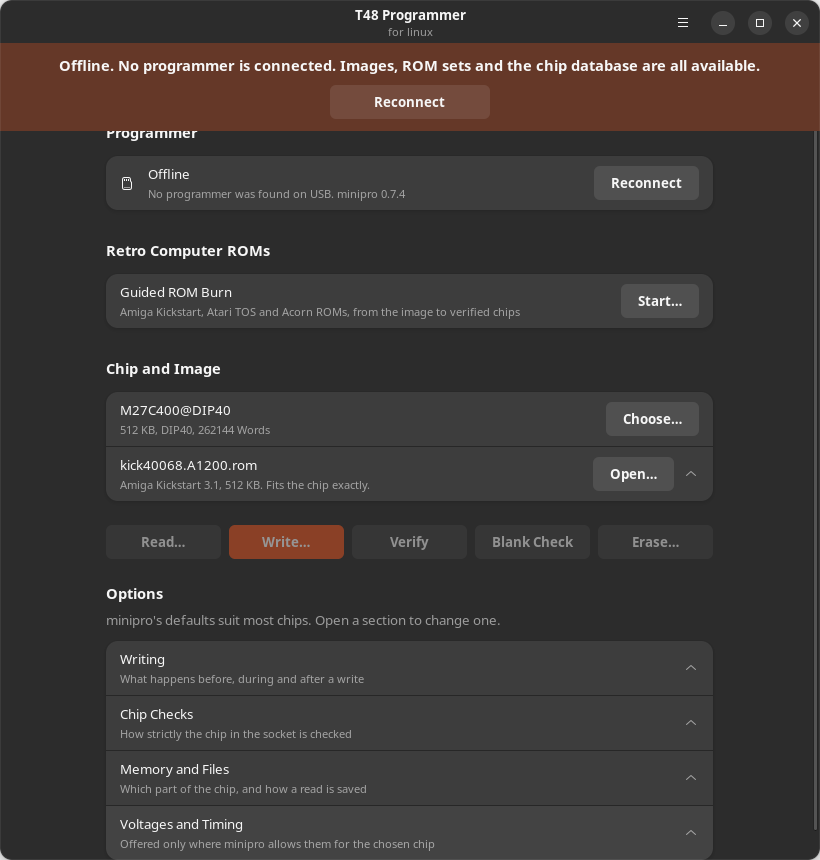
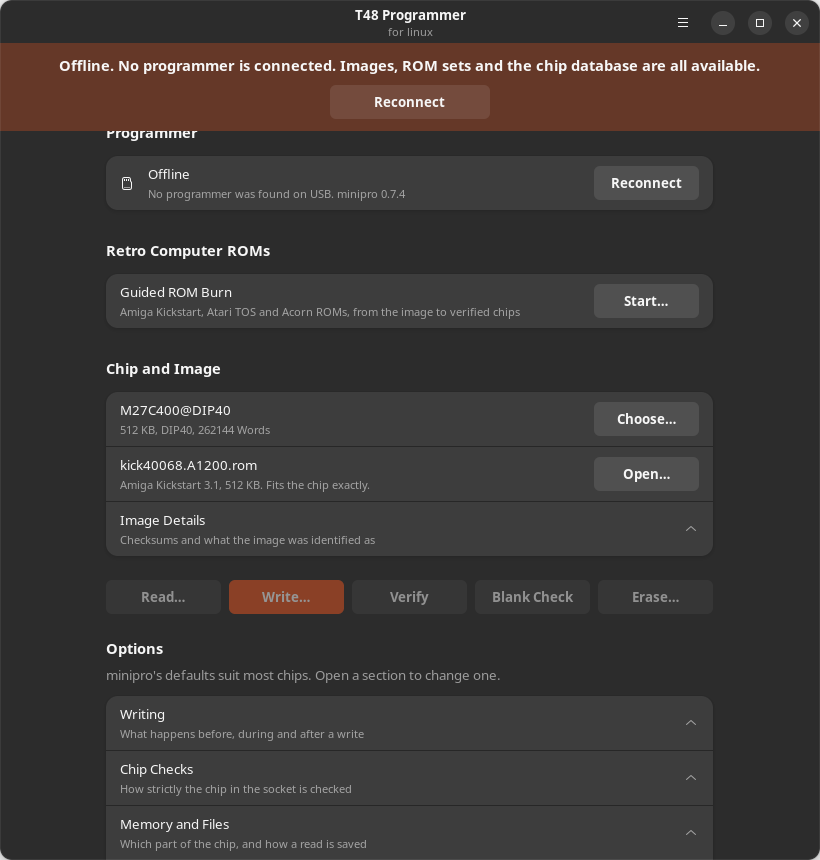
Line up the buttons on the start page
Reconnect, Start, Choose and Open were each as wide as their own label, and
Open sat further in than the rest because its row was an expander, which draws
its arrow after any button it is given.

The four buttons are now made by one helper and share a size group, so they are
the same width and line up at both edges. The image row is an ordinary row like
the others, and the image's details have an expander row of their own beneath
it, shown only when an image is open. That row's subtitle counts the warnings
when there are any, and it still opens by itself for a suspect image.

A test checks the geometry: one width, and one right-hand edge.

diff --git a/src/t48_programmer/window.py b/src/t48_programmer/window.py
@@ -288,15 +288,25 @@ class MainWindow(Adw.ApplicationWindow):
         self._progress_page.set_child(box)
         return self._progress_page
 
+    def _row_button(self, row: Adw.ActionRow, label: str, action_name: str) -> None:
+        """Put a command button at the end of a start page row.
+
+        The buttons share a size group, so they are all as wide as the widest
+        and line up down the page at both edges.
+        """
+        button = Gtk.Button(label=label, valign=Gtk.Align.CENTER)
+        button.set_action_name(action_name)
+        self._row_buttons.add_widget(button)
+        row.add_suffix(button)
+
     def _build_dashboard(self) -> Gtk.Widget:
         page = Adw.PreferencesPage()
+        self._row_buttons = Gtk.SizeGroup(mode=Gtk.SizeGroupMode.HORIZONTAL)
 
         hardware = Adw.PreferencesGroup(title="Programmer")
         self._programmer_row = Adw.ActionRow(title="Looking for the programmer…")
         self._programmer_row.add_prefix(Gtk.Image(icon_name="media-flash-symbolic"))
-        reconnect = Gtk.Button(label="Reconnect", valign=Gtk.Align.CENTER)
-        reconnect.set_action_name("win.reconnect")
-        self._programmer_row.add_suffix(reconnect)
+        self._row_button(self._programmer_row, "Reconnect", "win.reconnect")
         hardware.add(self._programmer_row)
         page.add(hardware)
 
@@ -306,24 +316,23 @@ class MainWindow(Adw.ApplicationWindow):
             subtitle="Amiga Kickstart, Atari TOS and Acorn ROMs, from the image to "
             "verified chips",
         )
-        start_guide = Gtk.Button(label="Start…", valign=Gtk.Align.CENTER)
-        start_guide.set_action_name("win.rom-wizard")
-        guide_row.add_suffix(start_guide)
+        self._row_button(guide_row, "Start…", "win.rom-wizard")
         guide.add(guide_row)
         page.add(guide)
 
         target = Adw.PreferencesGroup(title="Chip and Image")
         self._chip_row = Adw.ActionRow(title_lines=1)
-        choose = Gtk.Button(label="Choose…", valign=Gtk.Align.CENTER)
-        choose.set_action_name("win.choose-chip")
-        self._chip_row.add_suffix(choose)
+        self._row_button(self._chip_row, "Choose…", "win.choose-chip")
         target.add(self._chip_row)
-        self._image_row = Adw.ExpanderRow(title_lines=1)
-        open_image = Gtk.Button(label="Open…", valign=Gtk.Align.CENTER)
-        open_image.set_action_name("win.open-image")
-        self._image_row.add_suffix(open_image)
-        self._image_detail_rows: list[Gtk.Widget] = []
+        self._image_row = Adw.ActionRow(title_lines=1)
+        self._row_button(self._image_row, "Open…", "win.open-image")
         target.add(self._image_row)
+        # The details have a row of their own. An expander draws its arrow
+        # after any button it is given, which would push Open out of line with
+        # the buttons above it.
+        self._image_details = Adw.ExpanderRow(title="Image Details", visible=False)
+        self._image_detail_rows: list[Gtk.Widget] = []
+        target.add(self._image_details)
         page.add(target)
 
         actions = Adw.PreferencesGroup()
@@ -430,12 +439,12 @@ class MainWindow(Adw.ApplicationWindow):
             self._chip_row.set_subtitle("Every operation needs to know the exact part")
 
         for row in self._image_detail_rows:
-            self._image_row.remove(row)
+            self._image_details.remove(row)
         self._image_detail_rows.clear()
         if self.image_path is None or self.image_identity is None:
             self._image_row.set_title("No image opened")
             self._image_row.set_subtitle("Needed to write or verify a chip")
-            self._image_row.set_enable_expansion(False)
+            self._image_details.set_visible(False)
             return
         identity = self.image_identity
         summary = [identity.title, size_text(self.image_bytes)]
@@ -454,9 +463,15 @@ class MainWindow(Adw.ApplicationWindow):
             row.add_css_class("property")
             self._image_detail_rows.append(row)
         for row in self._image_detail_rows:
-            self._image_row.add_row(row)
-        self._image_row.set_enable_expansion(bool(self._image_detail_rows))
-        self._image_row.set_expanded(bool(identity.warnings))
+            self._image_details.add_row(row)
+        warnings = len(identity.warnings)
+        self._image_details.set_subtitle(
+            "Checksums and what the image was identified as"
+            if not warnings
+            else f"{warnings} warning" + ("s" if warnings > 1 else "")
+        )
+        self._image_details.set_visible(bool(self._image_detail_rows))
+        self._image_details.set_expanded(bool(warnings))
 
     def _fit_text(self) -> str:
         chip_bytes = self.chip_info.code_bytes if self.chip_info else 0

diff --git a/tests/test_window.py b/tests/test_window.py
@@ -154,18 +154,45 @@ class ConnectedWindowTests(WindowTestCase):
         self.assertEqual(self.window._image_row.get_title(), "kick31.rom")
         self.assertIn("Amiga Kickstart 3.1", subtitle)
         self.assertIn("Fits the chip exactly.", subtitle)
-        self.assertFalse(self.window._image_row.get_expanded())
+        self.assertFalse(self.window._image_details.get_expanded())
 
         self.window.set_chip("AT28C256")
 
         self.assertIn("the chip holds 32 KB", self.window._image_row.get_subtitle())
+
+    def test_the_start_page_buttons_line_up(self) -> None:
+        buttons = self.window._row_buttons.get_widgets()
+        self.window.load_image(self.image("kick31.rom", samples.kickstart()))
+        pump(lambda: False, timeout=0.3)
+
+        self.assertEqual(
+            sorted(button.get_label() for button in buttons),
+            ["Choose…", "Open…", "Reconnect", "Start…"],
+        )
+        self.assertEqual(len({button.get_width() for button in buttons}), 1)
+        # Every button ends at the same distance from the edge of the window.
+        edges = {
+            round(
+                button.compute_bounds(self.window)[1].get_x()
+                + button.compute_bounds(self.window)[1].get_width()
+            )
+            for button in buttons
+        }
+        self.assertEqual(len(edges), 1)
+
+    def test_image_details_appear_only_when_there_is_an_image(self) -> None:
+        self.assertFalse(self.window._image_details.get_visible())
+
+        self.window.load_image(self.image("kick31.rom", samples.kickstart()))
+
+        self.assertTrue(self.window._image_details.get_visible())
 
     def test_a_suspect_image_opens_its_warnings(self) -> None:
         damaged = bytearray(samples.kickstart())
         damaged[0x2000] ^= 0xFF
         self.window.load_image(self.image("bad.rom", bytes(damaged)))
 
-        self.assertTrue(self.window._image_row.get_expanded())
+        self.assertTrue(self.window._image_details.get_expanded())
 
     def test_an_image_deleted_after_opening_does_not_break_the_page(self) -> None:
         path = self.image("gone.rom", samples.acorn_rom())
